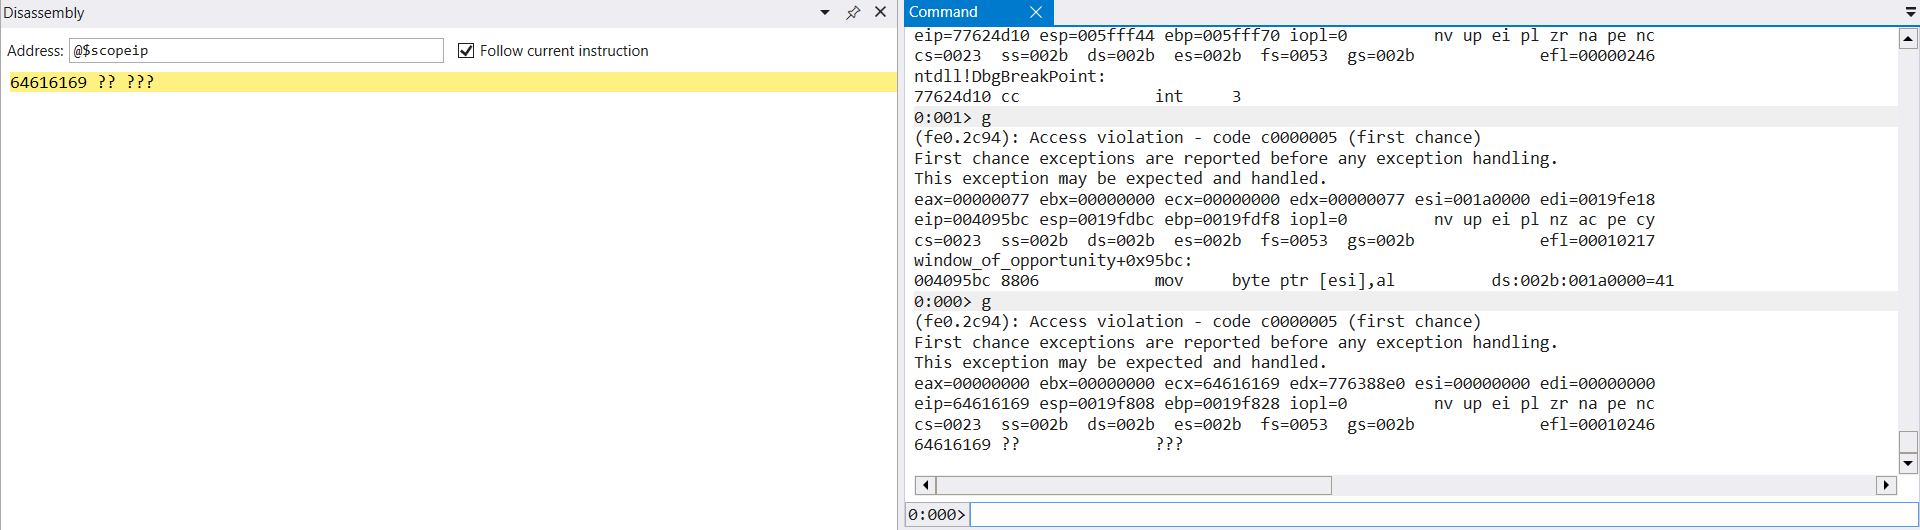
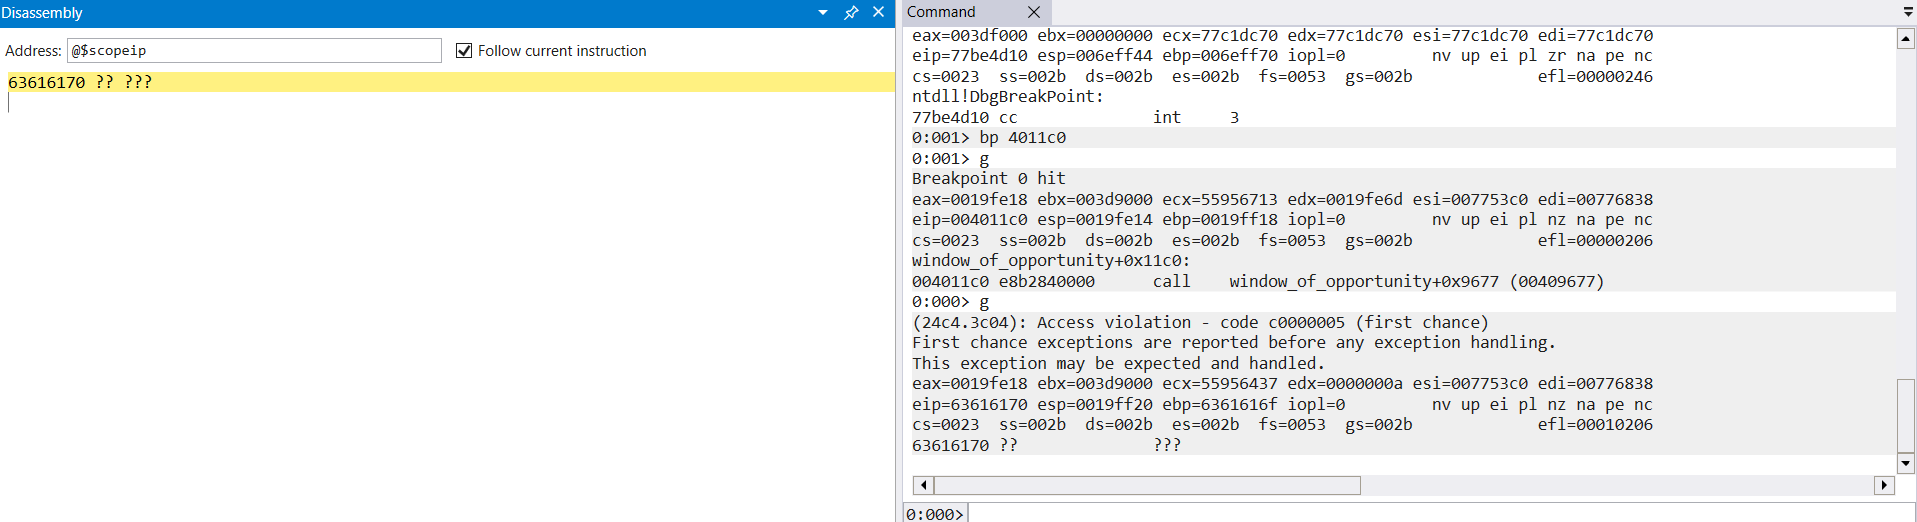
fix

Changed region(s): [[0.0, 0.0, 1.0, 1.0]]

diff --git a/WhiteHacks2022/Pwn/Windows Of Opportunity/README.md b/WhiteHacks2022/Pwn/Windows Of Opportunity/README.md
@@ -115,14 +115,14 @@ Our first objective will be to take control of our program by gaining EIP contro
 
 We can do this by sending in a [de-bruijin/cyclic](https://en.wikipedia.org/wiki/De_Bruijn_sequence) sequence and let the program crash, then identify the offset to our return address.
 
-This script generates a cyclic sequence of 1000 characters and send it to the vulnerable input.
+This script generates a cyclic sequence of 300 characters and send it to the vulnerable input.
 
 ```py
 from pwn import *
 
 p = process('./window_of_opportunity.exe')
 
-payload = cyclic(1000)
+payload = cyclic(300)
 
 pause()
 
@@ -138,13 +138,13 @@ If we let our windbg run by sending the `g` command a few times (and unpause our
 
 ![image](windbg0.png)
 
-Our program crashes at `0x63616170` which is part of the 1000 character cyclic sequence we sent.
+Our program crashes at `0x63616170` which is part of the 300 character cyclic sequence we sent.
 
 If we search up this unique sequence of bytes in our cyclic structure,
 
 ![image](cyclic0.png)  
 
-we see that the offset to our return address is actually 332.
+we see that the offset to our return address is actually 260.
 
 Just to verify, we will try to send another payload to our program
 

diff --git a/WhiteHacks2022/README.md b/WhiteHacks2022/README.md
@@ -1,6 +1,8 @@
 ### PWN
 [\[GOVTECH\] Alternate](Pwn/Alternate/readme.md) - ret2libc w a twist
 
+[\[GOVTECH\] Window of Opportunity](Pwn/Windows Of Opportunity/README.md) - window pwn
+
 [Letters_To_Space](Pwn/Letters_To_Space/readme.md) - ret2libc w pie and canary
 
 [rocket_man](Pwn/rocket_man/README.md) - function pointers, heap buffer overflow
